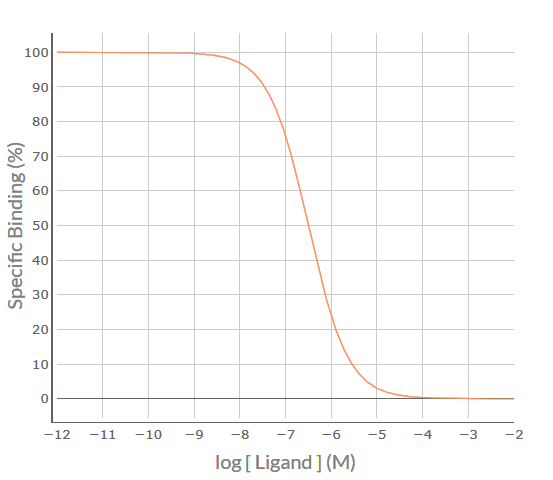
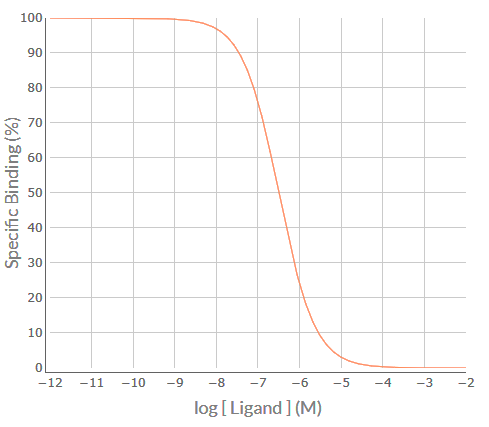
Modified SPIKES examples images

diff --git a/examples.html b/examples.html
@@ -382,7 +382,7 @@
                                     <img class="img-fluid" src="img/example3img1.png">
                                     <p class="lihead"><b><span style="color:red;">S</span>hape / <span style="color:red;">P</span>osition</b></p>
                                     <p class="justify">Visual inspection of the S-secoverine competition binding curve indicates that it is inverse sigmoidal, but is it <i>steep sigmoidal</i> or <i>shallow sigmoidal</i>?  For competition binding curves to be considered <i>steep sigmoidal</i> then the extent of %Specific Binding covered by logIC<sub>50</sub> ± 1.0 should be greater than 80% - if it is less than 80% then the curve is considered <i>shallow sigmoidal</i>. Firstly, determine the logIC<sub>50</sub> value for each competing ligand, which in this example is -7.7.  Then determine the %Specific binding values at the [S-secoverine] that is 1.0 log unit below the –logIC<sub>50</sub> (-8.7) and at 1.0 log unit above the –logIC<sub>50</sub> (-6.7).  As shown in the figure below, the levels of %Specific binding are 90.9% and 9.1%, respectively.  The difference (90.9% – 9.1% = 81.8%) is greater than 80% - thus, the competition binding curve is considered <i>steep sigmoidal</i>.  This indicates that S-secoverine is binding to a population of receptors for which it has similar affinity – for S-Secoverine that would be either a pure population of M<sub>5</sub> receptors for which it has low affinity (-logK<sub>i</sub> = 6.5) or a population of M<sub>1</sub> and/or M<sub>2</sub> and/or M<sub>3</sub> and/or M<sub>4</sub> receptors for which it has higher affinity (range of –logK<sub>i</sub> values 7.7-8.0).</p>
-                                    <img class="img-fluid" src="img/example3img1.png">
+                                    <img class="img-fluid" src="img/example3img2.png">
                                     <p class="lihead"><b><span style="color:red;">I</span>C50 / <span style="color:red;">K</span>i value </b></p>
                                     <p class="justify">As a very low concentration of radioligand was used in the study (compared to the K<sub>d</sub> of the radioligand), the –logIC<sub>50</sub> ~ -logK<sub>i</sub> and so the –logK<sub>i</sub> value for S-secoverine = 7.7.  If a higher concentration of radioligand had been used then the Cheng-Prusoff equation would have been used to convert the IC<sub>50</sub> value into the K<sub>i</sub>value.</p>
                                     <p class="lihead"><b><span style="color:red;">E</span>limination / <span style="color:red;">S</span>ummation</b></p>
